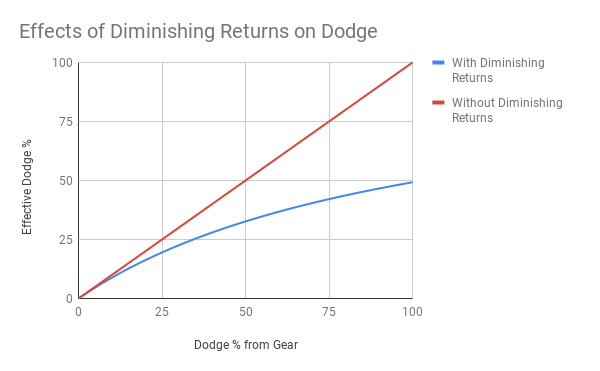
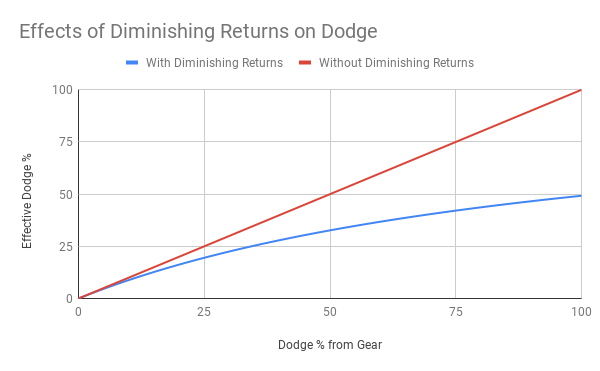
Update graphs, change some wording

diff --git a/content/guardian/diminishing-returns.md b/content/guardian/diminishing-returns.md
@@ -1,13 +1,13 @@
 ---
 title: On Diminishing Returns
-date: '2018-09-11'
+date: '2018-12-10'
 authors: ['Faide']
 published: false
 hasMath: true
-patch: 8.0.1
+patch: "8.1"
 ---
 
-I've seen a lot of questions surface recently about diminishing returns --- what they are, how they are (or aren't) related to damage reduction, and what stats are and aren't affected. Let's break it down.
+I've seen a lot of questions surface recently about diminishing returns --- what they are, how they are (or aren't) related to damage reduction, and what stats are (or aren't) affected. Let's talk about it.
 
 Be warned: we're doing a deep dive into the theory of diminishing returns and damage reduction. Here be ~~dragons~~ mathematics.
 
@@ -32,9 +32,11 @@ The first is the property of **diminishing marginal utility**, which is the idea
 
 Many people understand this intuitively as "stat X gets worse the more you have of it". This is inherent in the way that WoW computes stat ratings, and all stats are affected equally by this phenomenon. 
 
+I won't be exploring diminishing marginal utility in this article; just know that it exists, and that when discussing diminishing returns as it applies to damage reduction, it's often quietly swept under the rug because it is less relevant than the second type of diminishing returns.
+
 ### Diminishing Returns from Rating Penalty
 
-A second use of the term diminishing returns refers to ex post facto conversions applied to some values to reduce their effectiveness from what is advertised on the tooltip. Stats such as Armor, Block, Stagger, and Dodge/Parry are all subject to a diminishing returns penalty. This is the classic definition of "diminishing returns" that players use most often in WoW, and will be the primary focus of this article.
+A second use of the term diminishing returns refers to ex post facto conversions applied to some values to reduce their effectiveness from what is advertised on the tooltip. Stats such as Armor, Block, Stagger, and Dodge/Parry are all subject to a diminishing returns penalty. This is the definition of "diminishing returns" that players use most often in WoW, especially in discussions involving tanking stats, and will be the primary focus of this article.
 
 Let's take the dodge/parry conversion, for example. For simplicity's sake I will use terms relevant to Guardian, but know that anywhere that "Dodge" is mentioned, it can be replaced with "Parry" (and "Agility" with "Strength") as the formula is the same for both.
 
@@ -51,17 +53,17 @@ What this results in is a function that limits the effectiveness of stacking sta
 
 ![Effects of Diminishing Returns on Dodge](/guardian/images/dodge-diminishing-returns.png)
 
-Armor is subject to a similar penalty, except it's baked directly into the conversion from Armor rating to damage reduction:
+Armor is subject to a similar penalty, except it's baked directly into the conversion from Armor rating to damage reduction (and all Armor is penalized):
 
 {{< texblock >}}
 damageReduction = \frac{armorRating}{armorRating + K}
 {{< /texblock >}}
 
-where K is a fixed constant that depends on the level your attacker and the type of content you are doing (for example, a Heroic raid boss has a K value of 8467.2).
+where K is a fixed constant that depends on the level your attacker and the type of content you are doing (for example, a Mythic Uldir boss has a K value of 9311.4).
 
 ![Damage Reduction from Armor against a Level 123 Attacker](/guardian/images/damage-reduction-from-armor.png)
 
-In fact --- any stat whose conversion formula is of the shape {{< tex "f(x) = \frac{x}{Ax + C}" >}} where A and C are constant numbers --- will be subject to diminishing returns, as it is inherent in the equation itself.
+In fact --- any stat whose conversion formula is of the shape {{< tex "f(x) = \frac{x}{Ax + C}" >}} where A and C are constant, positive numbers --- will be subject to diminishing returns, as it is the nature of this type of equation.
 
 Stats that use this type of formula and are therefore subject to diminishing returns include:
 
@@ -74,22 +76,13 @@ Notably, Versatility is *not* subject to any diminishing returns penalties. You 
 
 ## How is diminishing returns related to damage reduction?
 
-A misconception I often hear is that stats that reduce your damage taken like Armor are subject to diminishing returns and therefore provide less value when you already have a lot of Armor. This is partially true, but it's only half the story.
+A misconception I often hear is that because stats that reduce your damage intake like Armor are subject to diminishing returns, they therefore provide less value when you already have a lot of that stat. This is partially true, but it's only half the story.
 
 Consider for a moment what damage reduction actually implies. Suppose you currently have 0% damage reduction, and you take a hit for 100 damage. You reduce 0 of that incoming damage, and so you take the full 100 damage to the face.  Now, suppose you gain 1% damage reduction, and you take another 100 damage hit. You are now reducing 1% of that damage, and taking 99 damage. Going from 0% to 1% damage reduction has decreased the amount of damage you take by 1%. This might seem painfully obvious, but bear with me for a moment.
 
 Now suppose you currently have 98% damage reduction. A 100 damage hit would be reduced to 2 damage. If you then gained another 1%, that 100 damage hit is now reduced by 99%, and you take 1 damage. Going from taking 2 damage to 1 damage has decreased the amount of damage you take by 50%. 
 
 As such, **gaining 1% damage reduction is 50 times more valuable when you already have 98% damage reduction than it is when you have 0% damage reduction**. Rather than diminishing returns, damage reduction has "increasing returns" --- every percent of damage reduction you gain is more valuable than the last.
-
-Another example: let's say you have two stats that reduce your damage taken, stat A and stat B. You currently have 0% reduction from both. 
-
-
-# TODO: FLESH OUT THIS EXAMPLE
-
-
-
-
 
 To see this more clearly, let's express it in terms of effective health. Effective health (or EHP) refers to the amount of damage required to kill you, taking into account all of your damage reductions. This is very useful for judging exactly how much impact a gain in damage reduction will have on our survivability, as we can now define it in terms of how much additional damage we can take. 
 
@@ -105,7 +98,7 @@ As you might imagine, going from 98% damage reduction to 99% damage reduction (i
 
 {{< texblock >}}
 \begin{array}{cc}
-\text{98\%} & \text{99\%} \\[3ex]
+\text{98\% Reduction} & \text{99\% Reduction} \\[3ex]
 \begin{aligned}
 EHP &= \frac{health}{1 - 0.98} \\[2ex]
 &= \frac{1}{0.02} \\[2ex]
@@ -143,9 +136,11 @@ With a bit of arithmetic, we arrive at a slightly unintuitive (and maybe surpris
 
 ![Effective Health vs Armor Rating](/guardian/images/ehp-armor.png)
 
-The same is true for Dodge/Parry, Block, and Stagger --- the proofs of which I'll leave as exercises to the reader.
+The same is true for Dodge/Parry, Block, and Stagger --- the proof of which I'll leave as an exercise to the reader.
 
-Finally, let's confirm a theory about Versatility. As I mentioned earlier, every point of Versatility rating provides the same amount of damage reduction regardless of how much Versatility you already have. We also know that every percent of damage reduction provides more effective health than the last, and so we should observe that Versatility also has these increasing returns.
+## What about Versatility?
+
+Finally, let's confirm a theory about Versatility. As I mentioned earlier, every point of Versatility rating provides the same amount of damage reduction regardless of how much Versatility you already have. We also know that every percent of damage reduction provides more effective health than the last, and so Versatility should too.
 
 The formula for converting Versatility rating to percent damage reduction is {{< tex "damageReduction = \frac{versRating}{ratingPerPercent * 2 * 100}" >}}, where ratingPerPercent is 85 at level 120.
 
@@ -170,12 +165,12 @@ What are we to make of all this? Well, let's review what we know.
 
 1. Stats like Block, Stagger, and Armor, have diminishing returns penalties applied to their conversion from rating to damage reduction. Dodge/Parry also has a diminishing returns penalty to its conversion from rating to Dodge/Parry chance.
 2. Damage reduction increases in value the more you have of it. This is because when you have more damage reduction, adding an additional 1% of reduction is reducing a larger amount of the remaining damage. 
-3. Expressing damage reduction gains in terms of effective health demonstrates that the stats that have diminishing returns applied to them cancel out the increasing returns of damage reduction, resulting in linear gains.
+3. Expressing damage reduction gains in terms of effective health demonstrates that the diminishing returns penalties applied to some stats cancel out the increasing returns of damage reduction, resulting in linear gains.
 4. Versatility is exceptional in that it is not subject to diminishing returns, and as such its damage reduction component will continue to increase in value as you gain more of it.
 5. All stats are affected by diminishing marginal utility, which is distinct from the diminishing returns penalty that only affects particular stats.
 
-So when someone claims that "Armor has diminishing returns", they are correct; Armor does have a diminishing returns penalty. In terms of effective health gain, every point of Armor grants the same amount of effective health as the previous, and the next. In this way, the diminishing returns penalty cancels out the increasing returns of damage reduction, resulting in a linear gain. The same is true of Dodge/Parry, Block, and Stagger.
+So when someone claims that "Armor has diminishing returns", they are correct; Armor is subject to a diminishing returns penalty. However: in terms of effective health gain, every point of Armor grants the same amount of effective health as the previous, and the next. In this way, the diminishing returns penalty cancels out the increasing returns of damage reduction, resulting in a linear gain. The same is true of Dodge/Parry, Block, and Stagger.
 
-It is also true that Armor loses value the more you have of it, but *only in the context of diminishing marginal utility*. Every point of Armor you gain is a smaller relative increase than the previous, with respect to how much Armor you already have. The same is true of not only the damage reduction stats but of every stat in the game. We tend to ignore this factor when discussing the effects of diminishing returns from *rating penalties*, because it is not a distinguishing characteristic of the system like the penalties are and serves only to confuse those who are unfamiliar.
+It is also true that Armor loses value the more you have of it, but *only in the context of diminishing marginal utility*. Every point of Armor you gain is a smaller relative increase than the previous, with respect to how much Armor you already have. The same is true of not only the damage reduction stats but of every stat in the game. We tend to ignore this factor when discussing the effects of diminishing returns from *rating penalties*, because it is not a distinguishing characteristic of the system like the penalties are and serves only to confuse those who are unfamiliar with the topic. 
 
-Hopefully this has helped clarify some of the less intuitive parts of this topic. 
+Hopefully this has helped clarify some of the less intuitive parts of diminishing returns, and enables you to make informed decisions about defensive stats in the future. 
